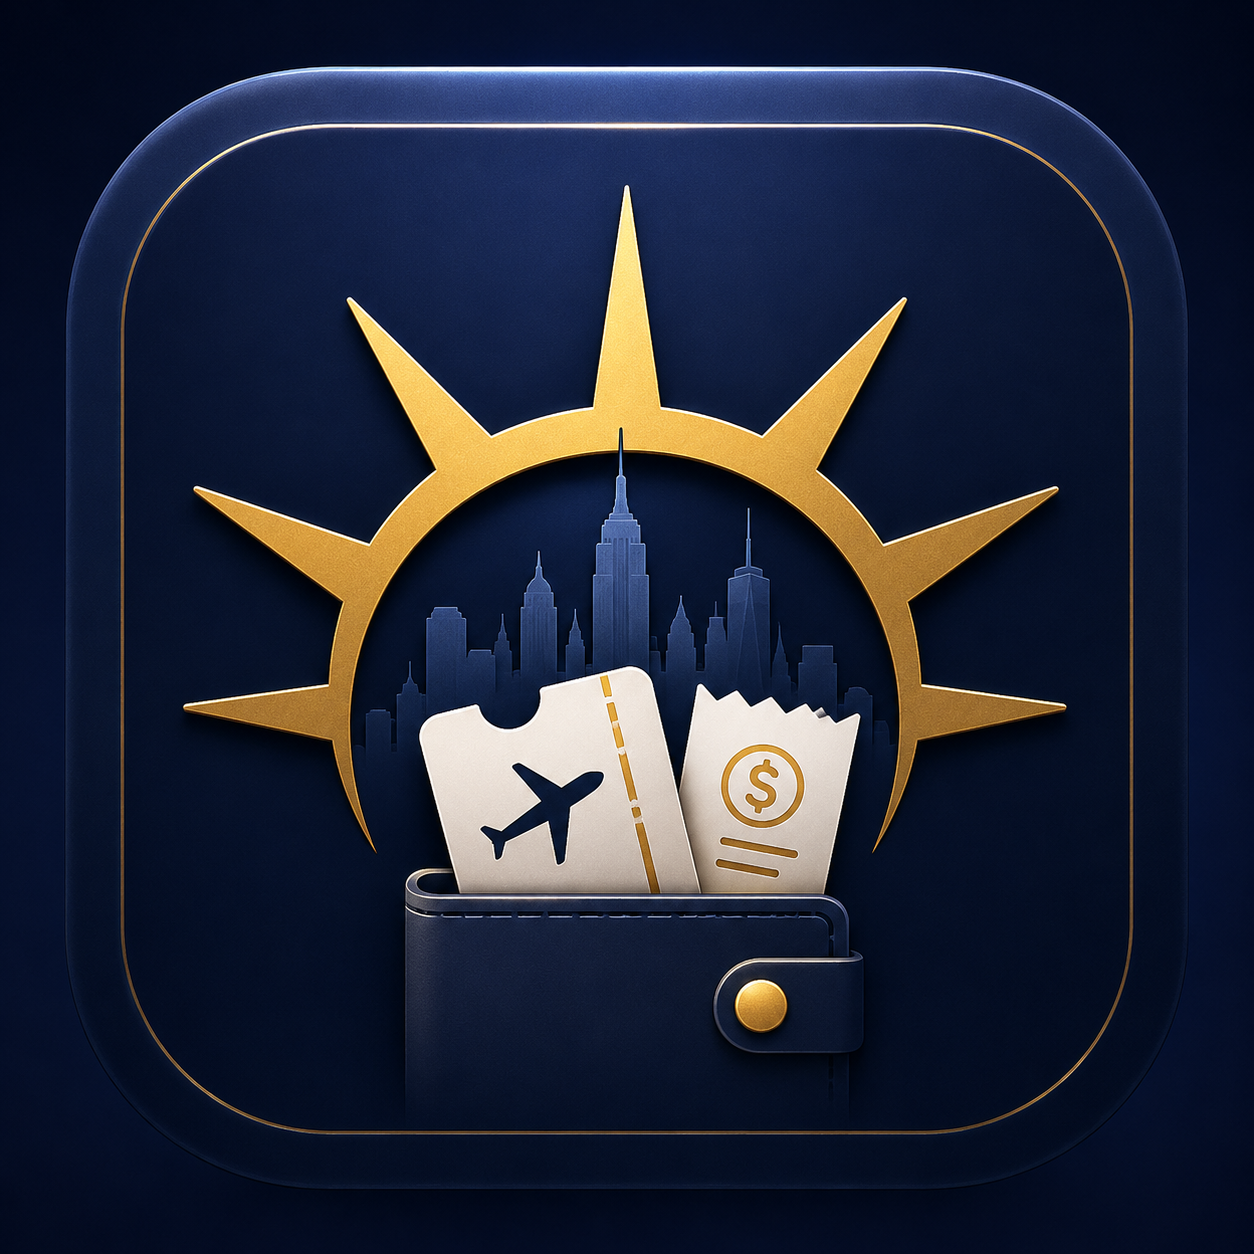
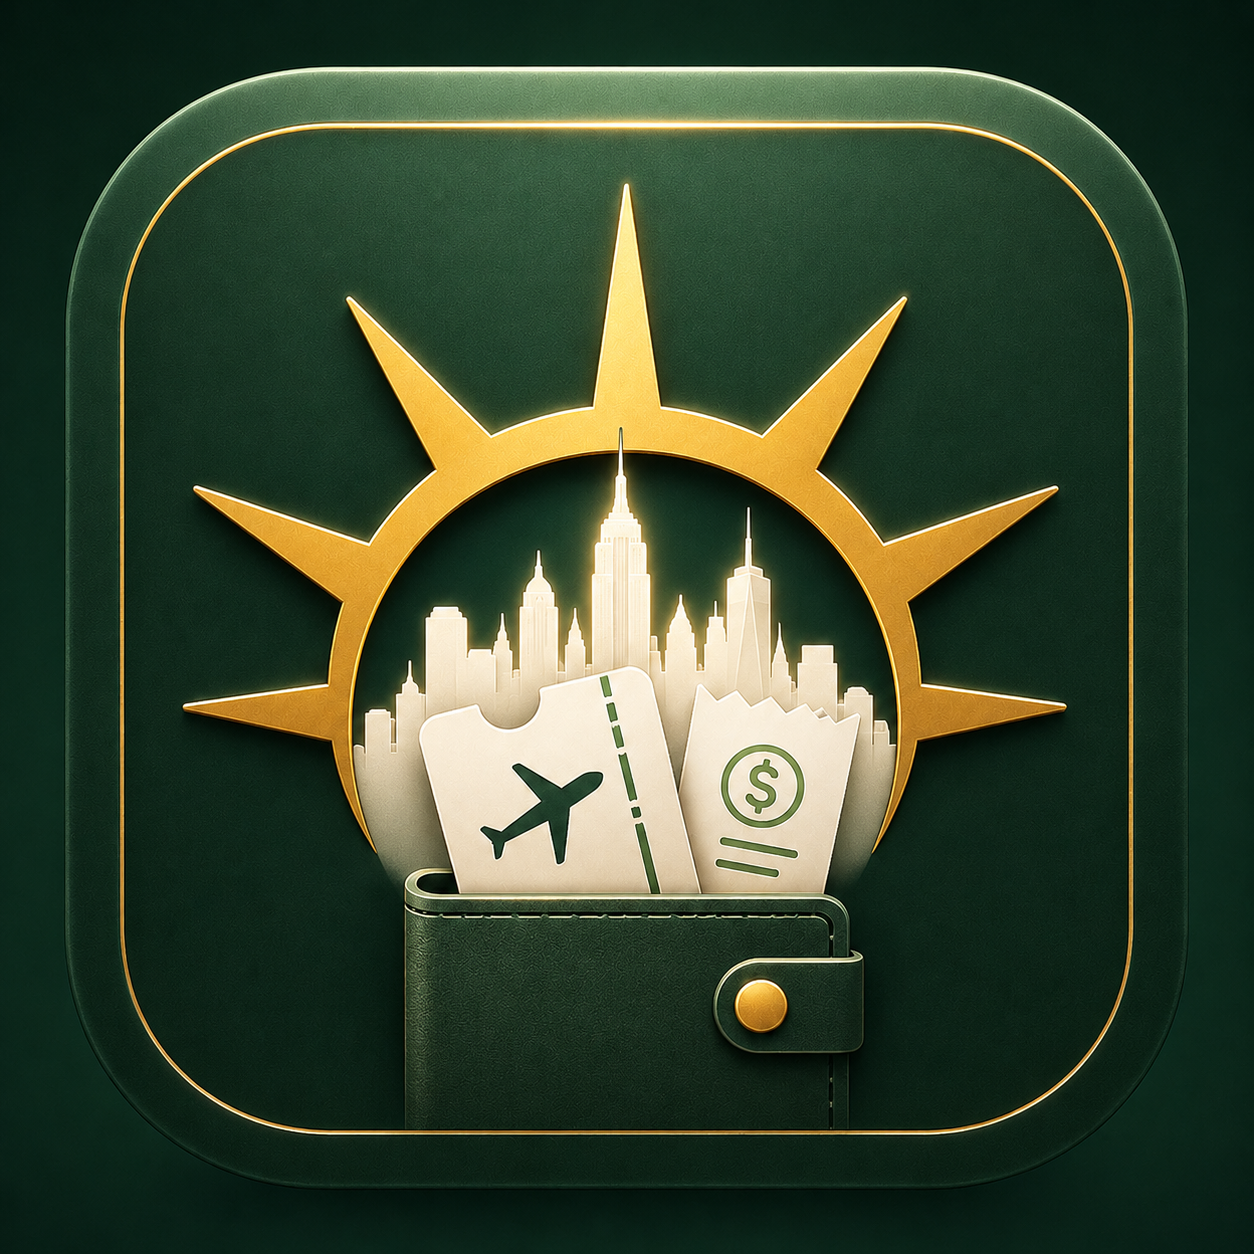
Add files via upload

diff --git a/index.html b/index.html
@@ -93,6 +93,8 @@ main{padding:0 17px calc(108px + var(--safe-bottom));position:relative;z-index:1
 .activity-row{align-items:flex-start}.activity-time{font-family:var(--mono);font-size:9px;color:var(--amber);width:42px;padding-top:4px}.activity-row .row-icon{color:var(--amber)}
 .tabs-inline{display:flex;padding:4px;background:rgba(0,0,0,.16);border:1px solid var(--border);border-radius:99px;margin-bottom:13px}.tabs-inline button{flex:1;border:0;background:none;color:var(--text-faint);padding:8px;border-radius:99px;font-size:10px;font-weight:700;cursor:pointer}.tabs-inline button.active{background:var(--surface-3);color:var(--stone)}
 .packing-summary{padding:15px;margin-bottom:10px}.packing-top{display:flex;align-items:center;justify-content:space-between}.packing-number{font-family:var(--display);font-size:36px}.packing-number span{color:var(--amber)}.packing-row{align-items:flex-start}.check-btn{width:28px;height:28px;border-radius:9px;border:1px solid rgba(156,114,101,.35);background:none;color:transparent;display:grid;place-items:center;cursor:pointer;flex:0 0 auto}.packing-row.done .check-btn{background:var(--success);border-color:var(--success);color:#13281F}.packing-row.done .row-title{text-decoration:line-through;color:var(--text-faint)}.owner-badge{display:inline-flex;padding:2px 6px;border-radius:99px;background:rgba(223,169,140,.10);color:var(--amber);font-size:8px;margin-left:4px}
+
+.packing-filter-label{font-size:9px;text-transform:uppercase;letter-spacing:.12em;color:var(--text-faint);font-weight:700;margin:13px 2px 6px}.packing-title-row{gap:10px}.packing-title-row h2{min-width:0}.mine-list-toggle{border:1px solid var(--border-strong);background:var(--surface);color:var(--text-dim);border-radius:999px;padding:8px 11px;display:inline-flex;align-items:center;gap:6px;font-size:10px;font-weight:750;white-space:nowrap;cursor:pointer;box-shadow:0 5px 14px rgba(0,0,0,.06)}.mine-list-toggle.active{background:var(--accent,#315F48);border-color:var(--accent,#315F48);color:#fff}.mine-list-toggle:disabled{opacity:.45;cursor:not-allowed}.packing-row{align-items:center;padding:14px 4px;gap:12px}.packing-row .row-title{font-size:14px;line-height:1.25}.packing-row .row-meta{font-size:10.5px;margin-top:5px}.packing-row .check-btn{margin-top:0}.packing-row .owner-badge{vertical-align:2px}.packing-row .row-action{margin-left:2px}
 .day-card{padding:14px;margin-bottom:9px;cursor:pointer}.day-card-top{display:flex;justify-content:space-between;align-items:center}.day-card-title{font-family:var(--display);font-size:21px}.day-card-date{font-size:9px;color:var(--text-faint);margin-top:2px}.day-card-budget{font-family:var(--mono);font-size:11px;text-align:right}.day-card .dual-bars{display:grid;grid-template-columns:1fr 1fr;gap:7px;margin-top:11px}.day-card .dual-bars .progress{height:5px}
 .more-grid{display:grid;grid-template-columns:1fr 1fr;gap:10px}.more-card{padding:16px;min-height:130px;border:none;text-align:left;color:var(--text);cursor:pointer}.more-icon{width:42px;height:42px;border-radius:50%;display:grid;place-items:center;background:rgba(223,169,140,.09);border:1px solid rgba(223,169,140,.22);color:var(--amber);margin-bottom:18px}.more-title{font-family:var(--display);font-size:22px}.more-sub{font-size:10px;color:var(--text-faint);margin-top:3px;line-height:1.45}.back-link{border:none;background:none;color:var(--amber);display:inline-flex;align-items:center;gap:5px;padding:5px 0;cursor:pointer;font-size:10px}
 .dashboard-stat{padding:18px;text-align:center;margin-bottom:10px}.dashboard-stat .label{font-size:9px;text-transform:uppercase;color:var(--text-faint);letter-spacing:.11em}.dashboard-stat .value{font-family:var(--display);font-size:44px;color:var(--stone);margin-top:3px}.dashboard-stat .sub{font-size:10px;color:var(--text-faint)}
@@ -311,6 +313,8 @@ html[data-theme="dark"] .tabs-inline button{color:#8D9B91}
 html[data-theme="dark"] .tabs-inline button.active{background:#243128;color:#F0F3EC;box-shadow:none}
 html[data-theme="dark"] .packing-number,html[data-theme="dark"] .packing-number span{color:#F0F3EC}
 html[data-theme="dark"] .owner-badge{background:#1B271F;color:#B8C8B6}
+html[data-theme="dark"] .mine-list-toggle{background:#162019;border-color:#314238;color:#C9D4CB;box-shadow:none}
+html[data-theme="dark"] .mine-list-toggle.active{background:#7F9B82;border-color:#7F9B82;color:#101512}
 html[data-theme="dark"] nav.bottom{background:rgba(9,13,10,.96);border-top-color:rgba(227,235,225,.08);box-shadow:0 -10px 30px rgba(0,0,0,.25)}
 html[data-theme="dark"] nav.bottom button{color:#839188}
 html[data-theme="dark"] nav.bottom button.active{color:#A3B18A}
@@ -372,6 +376,7 @@ html[data-theme="dark"] .setup-box{background:#151D17;color:#B9C5BB;border-color
 
 <div class="overlay" id="overlayPacking"><div class="sheet"><div class="sheet-handle"></div><h2>Añadir a la lista</h2>
   <div class="field-label">Artículo</div><input class="input" id="packName" maxlength="70" placeholder="Ej. Cargador del iPhone">
+  <div class="field-label">Cantidad</div><input class="input" id="packQty" type="number" min="1" max="99" value="1">
   <div class="field-label">Responsable</div><div class="choice-row" id="packOwner"></div>
   <div class="field-label">Nota opcional</div><input class="input" id="packNote" maxlength="120" placeholder="Ej. Guardar en equipaje de mano">
   <button class="btn btn-primary full" id="savePacking" style="margin-top:18px">Añadir artículo</button><button class="btn btn-secondary full" data-close="overlayPacking" style="margin-top:8px">Cancelar</button>
@@ -501,7 +506,7 @@ updateThemeButton();
 const CACHE={expenses:'nyc_expenses_v3',categories:'nyc_categories_v3',plans:'nyc_plans_v1',packing:'nyc_packing_v1',budgets:'nyc_budgets_v1'};
 function readCache(key){try{const v=JSON.parse(localStorage.getItem(key)||'[]');return Array.isArray(v)?v:[]}catch(_){return[]}}
 function writeCache(key,value){try{localStorage.setItem(key,JSON.stringify(value))}catch(e){console.warn(e)}}
-let state={tab:'hoy',moreView:'menu',expenses:readCache(CACHE.expenses),customCategories:readCache(CACHE.categories),plans:readCache(CACHE.plans),packing:readCache(CACHE.packing),budgets:readCache(CACHE.budgets),me:localStorage.getItem('nyc_trip_identity')||null,packingFilter:'all',pending:{expenses:false,categories:false,plans:false,packing:false,budgets:false},syncError:false};
+let state={tab:'hoy',moreView:'menu',expenses:readCache(CACHE.expenses),customCategories:readCache(CACHE.categories),plans:readCache(CACHE.plans),packing:readCache(CACHE.packing),budgets:readCache(CACHE.budgets),me:localStorage.getItem('nyc_trip_identity')||null,packingFilter:'all',packingMineOnly:false,pending:{expenses:false,categories:false,plans:false,packing:false,budgets:false},syncError:false};
 let db=null,unsubs=[];
 let selectedDayId=todayId();
 let expenseCategory='comida',expenseWho=null,packOwner='Ambos';
@@ -553,8 +558,26 @@ function viewPlan(){const d=TRIP_DAYS.find(x=>x.id===selectedDayId),list=plansFo
 
 function viewDias(){const totalSpent=controlledSpent(),limit=tripEffectiveTotal();return `<div class="section-title"><h2>Resumen del viaje</h2><span class="sub">10 días</span></div><div class="card hero"><div class="hero-grid" style="margin-top:0"><div><div class="metric-label">Comida + transporte</div><div class="metric-main"><strong>${formatMoney(totalSpent)}</strong></div><div class="metric-sub">Plan aplicado ${formatMoney(limit)} · original ${formatMoney(tripOriginalTotal())}</div></div><div class="ring" style="--pct:${pct(totalSpent,limit)}"><div class="ring-content"><div class="ring-num">${Math.round(pct(totalSpent,limit))}%</div><div class="ring-text">viaje</div></div></div></div></div>${TRIP_DAYS.map(d=>{const spent=sum(expensesFor({dayId:d.id}).filter(e=>e.category==='comida'||e.category==='transporte')),lim=effectiveBudget(d.id,'comida')+effectiveBudget(d.id,'transporte'),f=sum(expensesFor({dayId:d.id,categoryId:'comida'})),t=sum(expensesFor({dayId:d.id,categoryId:'transporte'}));return `<div class="card day-card" data-open-day="${d.id}"><div class="day-card-top"><div><div class="day-card-title">${escapeHtml(d.label)}</div><div class="day-card-date">${escapeHtml(d.sub)} · ${plansFor(d.id).length} actividades</div></div><div class="day-card-budget">${formatMoney(spent)}<br><span style="color:var(--text-faint)">de ${formatMoney(lim)}</span></div></div><div class="dual-bars"><div class="progress"><div class="progress-fill" style="width:${pct(f,effectiveBudget(d.id,'comida'))}%"></div></div><div class="progress"><div class="progress-fill" style="width:${pct(t,effectiveBudget(d.id,'transporte'))}%;background:var(--lavender)"></div></div></div></div>`}).join('')}`}
 
-function viewPacking(){const total=state.packing.length,done=state.packing.filter(x=>x.done).length;let list=state.packing;if(state.packingFilter==='pending')list=list.filter(x=>!x.done);if(state.packingFilter==='done')list=list.filter(x=>x.done);list=[...list].sort((a,b)=>Number(a.done)-Number(b.done)||(a.category||'').localeCompare(b.category||'')||(a.createdAtMs||0)-(b.createdAtMs||0));const rows=list.length?list.map(x=>`<div class="packing-row ${x.done?'done':''}"><button class="check-btn" data-toggle-pack="${x.id}" data-done="${x.done?'1':'0'}">${icon('check',16)}</button><div class="row-icon">${icon(packIcon(x.category),19)}</div><div class="row-main"><div class="row-title">${escapeHtml(x.name)}${Number(x.qty)>1?` × ${x.qty}`:''}<span class="owner-badge">${escapeHtml(x.owner)}</span></div><div class="row-meta">${escapeHtml(x.category)}${x.note?` · ${escapeHtml(x.note)}`:''}${x.createdBy?` · por ${escapeHtml(x.createdBy)}`:''}</div></div><button class="row-action danger" data-delete-pack="${x.id}">${icon('trash',17)}</button></div>`).join(''):emptyState('suitcase','La lista está vacía. Añadan todo lo que deben empacar o preparar.');return `<div class="section-title"><h2>Lista de viaje</h2><span class="sub">Compartida</span></div><div class="card packing-summary"><div class="packing-top"><div><div class="metric-label">Preparado</div><div class="packing-number"><span>${done}</span> / ${total}</div></div><div class="ring" style="--pct:${total?done/total*100:0};--ring-color:var(--success)"><div class="ring-content"><div class="ring-num">${total?Math.round(done/total*100):0}%</div><div class="ring-text">listo</div></div></div></div><div class="progress" style="margin-top:13px"><div class="progress-fill" style="width:${total?done/total*100:0}%;background:var(--success)"></div></div></div><div class="tabs-inline"><button data-pack-filter="all" class="${state.packingFilter==='all'?'active':''}">Todo</button><button data-pack-filter="pending" class="${state.packingFilter==='pending'?'active':''}">Pendiente</button><button data-pack-filter="done" class="${state.packingFilter==='done'?'active':''}">Listo</button></div>${rows}`}
-function packIcon(cat){return cat==='Documentos'?'ticket':cat==='Ropa'?'suitcase':cat==='Tecnología'?'more':cat==='Medicinas'?'plus':cat==='Concierto'?'music':'list'}
+function viewPacking(){
+ const mineActive=Boolean(state.packingMineOnly&&state.me);
+ const mineMatch=x=>{
+   const owner=x.owner||'Ambos';
+   return !mineActive||owner===state.me||owner==='Ambos';
+ };
+ const scope=state.packing.filter(mineMatch);
+ const total=scope.length,done=scope.filter(x=>x.done).length;
+ let list=scope;
+ if(state.packingFilter==='pending')list=list.filter(x=>!x.done);
+ if(state.packingFilter==='done')list=list.filter(x=>x.done);
+ list=[...list].sort((a,b)=>Number(a.done)-Number(b.done)||(a.owner||'Ambos').localeCompare(b.owner||'Ambos')||(a.createdAtMs||0)-(b.createdAtMs||0));
+ const emptyText=mineActive
+   ?`No hay artículos asignados a ${escapeHtml(state.me)} o a Ambos que coincidan con este estado.`
+   :'No hay artículos que coincidan con este estado.';
+ const rows=list.length?list.map(x=>`<div class="packing-row ${x.done?'done':''}"><button class="check-btn" data-toggle-pack="${x.id}" data-done="${x.done?'1':'0'}" aria-label="${x.done?'Marcar como pendiente':'Marcar como listo'}">${icon('check',16)}</button><div class="row-main"><div class="row-title">${escapeHtml(x.name)}${Number(x.qty)>1?` × ${x.qty}`:''}<span class="owner-badge">${escapeHtml(x.owner||'Ambos')}</span></div>${x.note||x.createdBy?`<div class="row-meta">${x.note?escapeHtml(x.note):''}${x.note&&x.createdBy?' · ':''}${x.createdBy?`Añadido por ${escapeHtml(x.createdBy)}`:''}</div>`:''}</div><button class="row-action danger" data-delete-pack="${x.id}" aria-label="Eliminar artículo">${icon('trash',17)}</button></div>`).join(''):emptyState('suitcase',emptyText);
+ const progressPct=total?done/total*100:0;
+ const progressLabel=mineActive?`Preparado · ${escapeHtml(state.me)}`:'Preparado';
+ return `<div class="section-title packing-title-row"><h2>Lista de viaje</h2><button class="mine-list-toggle ${mineActive?'active':''}" data-toggle-my-list aria-pressed="${mineActive?'true':'false'}" ${state.me?'':'disabled'}>${icon('user',14)} Mi lista</button></div><div class="card packing-summary"><div class="packing-top"><div><div class="metric-label">${progressLabel}</div><div class="packing-number"><span>${done}</span> / ${total}</div></div><div class="ring" style="--pct:${progressPct};--ring-color:var(--success)"><div class="ring-content"><div class="ring-num">${Math.round(progressPct)}%</div><div class="ring-text">listo</div></div></div></div><div class="progress" style="margin-top:13px"><div class="progress-fill" style="width:${progressPct}%;background:var(--success)"></div></div></div><div class="packing-filter-label">Estado</div><div class="tabs-inline"><button data-pack-filter="all" class="${state.packingFilter==='all'?'active':''}">Todo</button><button data-pack-filter="pending" class="${state.packingFilter==='pending'?'active':''}">Pendiente</button><button data-pack-filter="done" class="${state.packingFilter==='done'?'active':''}">Listo</button></div>${rows}`
+}
 
 function viewMore(){if(state.moreView==='dash')return viewDashboard();if(state.moreView==='cats')return viewCategories();return `<div class="section-title"><h2>Más</h2><span class="sub">Resumen y control</span></div><div class="more-grid"><button class="card more-card" data-more="dash"><div class="more-icon">${icon('chart',22)}</div><div class="more-title">Dashboard</div><div class="more-sub">Totales del viaje y presupuesto por categoría.</div></button><button class="card more-card" data-more="cats"><div class="more-icon">${icon('tag',22)}</div><div class="more-title">Categorías</div><div class="more-sub">Añadir gastos informativos como souvenirs.</div></button></div>`}
 function moreBack(title){return `<button class="back-link" data-more="menu">${icon('back',15)} Volver a Más</button><div class="section-title" style="margin-top:4px"><h2>${title}</h2></div>`}
@@ -564,7 +587,7 @@ function viewCategories(){return `${moreBack('Categorías')}${allCategories().ma
 function viewProfile(){return `${moreBack('Perfil')}<div class="card profile-panel"><img class="profile-large" src="${state.me||'Nicky'}.jpg" alt="${escapeHtml(state.me||'Perfil')}"><h3>${escapeHtml(state.me||'Sin seleccionar')}</h3><p>El perfil identifica quién añadió información. No calcula deudas ni divide gastos.</p><button class="btn btn-primary full" data-change-profile style="margin-top:12px">Cambiar perfil</button></div>`}
 
 function render(){const main=document.getElementById('main');const app=document.getElementById('app');if(!FIREBASE_CONFIGURED){main.innerHTML='<div class="section-title"><h2>Configuración pendiente</h2></div><div class="setup-box">Falta configurar <code>firebaseConfig</code>.</div>';return}main.innerHTML=state.tab==='hoy'?viewHoy():state.tab==='plan'?viewPlan():state.tab==='dias'?viewDias():state.tab==='lista'?viewPacking():viewMore();app.classList.toggle('home-hero-bg',state.tab==='hoy');app.classList.toggle('home-mode',state.tab==='hoy');document.querySelectorAll('.nav-btn').forEach(b=>b.classList.toggle('active',b.dataset.tab===state.tab));const fab=document.getElementById('fabAdd');fab.style.display=['hoy','plan','lista'].includes(state.tab)?'grid':'none';fab.title=state.tab==='hoy'?'Agregar gasto':state.tab==='plan'?'Añadir actividad':'Añadir artículo';bindDynamic();setProfileUI();updateThemeButton();updateSync()}
-function bindDynamic(){document.querySelectorAll('[data-day]').forEach(b=>b.onclick=()=>{selectedDayId=b.dataset.day;render()});document.querySelectorAll('[data-open-day]').forEach(b=>b.onclick=()=>{selectedDayId=b.dataset.openDay;state.tab='hoy';render()});document.querySelectorAll('[data-go-plan]').forEach(b=>b.onclick=()=>{state.tab='plan';render()});document.querySelectorAll('[data-more]').forEach(b=>b.onclick=()=>{state.moreView=b.dataset.more;render()});document.querySelectorAll('[data-change-profile]').forEach(b=>b.onclick=openIdentity);document.querySelectorAll('[data-pack-filter]').forEach(b=>b.onclick=()=>{state.packingFilter=b.dataset.packFilter;render()});
+function bindDynamic(){document.querySelectorAll('[data-day]').forEach(b=>b.onclick=()=>{selectedDayId=b.dataset.day;render()});document.querySelectorAll('[data-open-day]').forEach(b=>b.onclick=()=>{selectedDayId=b.dataset.openDay;state.tab='hoy';render()});document.querySelectorAll('[data-go-plan]').forEach(b=>b.onclick=()=>{state.tab='plan';render()});document.querySelectorAll('[data-more]').forEach(b=>b.onclick=()=>{state.moreView=b.dataset.more;render()});document.querySelectorAll('[data-change-profile]').forEach(b=>b.onclick=openIdentity);document.querySelectorAll('[data-pack-filter]').forEach(b=>b.onclick=()=>{state.packingFilter=b.dataset.packFilter;render()});document.querySelectorAll('[data-toggle-my-list]').forEach(b=>b.onclick=()=>{if(!state.me)return openIdentity();state.packingMineOnly=!state.packingMineOnly;render()});
  document.querySelectorAll('[data-delete-expense]').forEach(b=>b.onclick=()=>{if(confirm('¿Eliminar este gasto?'))queueWrite(deleteDoc(doc(db,'trips',TRIP_ID,'expenses',b.dataset.deleteExpense)),'Eliminando…','Gasto eliminado','No se pudo eliminar')});
  document.querySelectorAll('[data-delete-plan]').forEach(b=>b.onclick=()=>{if(confirm('¿Eliminar esta actividad del plan?'))queueWrite(deleteDoc(doc(db,'trips',TRIP_ID,'plans',b.dataset.deletePlan)),'Actualizando plan…','Actividad eliminada','No se pudo eliminar')});
  document.querySelectorAll('[data-toggle-pack]').forEach(b=>b.onclick=()=>queueWrite(updateDoc(doc(db,'trips',TRIP_ID,'packing',b.dataset.togglePack),{done:b.dataset.done!=='1',updatedAt:serverTimestamp(),updatedAtMs:Date.now(),updatedBy:state.me||'Sin perfil'}),'Actualizando…','Lista actualizada','No se pudo actualizar'));
@@ -601,7 +624,7 @@ document.getElementById('savePlan').onclick=async()=>{const d=currentPlanSelecti
 
 function openPacking(){document.getElementById('packName').value='';document.getElementById('packQty').value='1';document.getElementById('packNote').value='';packOwner='Ambos';renderPackOwners();openOverlay('overlayPacking');setTimeout(()=>document.getElementById('packName').focus(),120)}
 function renderPackOwners(){const w=document.getElementById('packOwner');w.innerHTML=['Nicky','Steven','Ambos'].map(n=>`<button class="choice ${packOwner===n?'selected':''}" data-owner="${n}">${n}</button>`).join('');w.querySelectorAll('[data-owner]').forEach(b=>b.onclick=()=>{packOwner=b.dataset.owner;renderPackOwners()})}
-document.getElementById('savePacking').onclick=()=>{const name=document.getElementById('packName').value.trim().replace(/\s+/g,' '),category=document.getElementById('packCategory').value,qty=Math.max(1,Math.min(99,Number(document.getElementById('packQty').value)||1)),note=document.getElementById('packNote').value.trim().slice(0,120);if(!name)return showToast('Escribe el artículo');closeOverlay('overlayPacking');queueWrite(addDoc(tripCollection('packing'),{name,category,owner:packOwner,qty,note,done:false,createdAt:serverTimestamp(),createdAtMs:Date.now(),createdBy:state.me||'Sin perfil',updatedAt:serverTimestamp(),updatedAtMs:Date.now(),updatedBy:state.me||'Sin perfil'}),'Añadiendo…','Artículo añadido','No se pudo añadir')};
+document.getElementById('savePacking').onclick=()=>{const name=document.getElementById('packName').value.trim().replace(/\s+/g,' '),qty=Math.max(1,Math.min(99,Number(document.getElementById('packQty').value)||1)),note=document.getElementById('packNote').value.trim().slice(0,120);if(!name)return showToast('Escribe el artículo');closeOverlay('overlayPacking');queueWrite(addDoc(tripCollection('packing'),{name,category:'General',owner:packOwner,qty,note,done:false,createdAt:serverTimestamp(),createdAtMs:Date.now(),createdBy:state.me||'Sin perfil',updatedAt:serverTimestamp(),updatedAtMs:Date.now(),updatedBy:state.me||'Sin perfil'}),'Añadiendo…','Artículo añadido','No se pudo añadir')};
 
 setProfileUI();render();updateSync();if(FIREBASE_CONFIGURED){try{initializeFirebase()}catch(e){console.error(e);state.syncError=true;updateSync();showToast('Error iniciando Firebase')}}if(!state.me)openIdentity();
 </script>